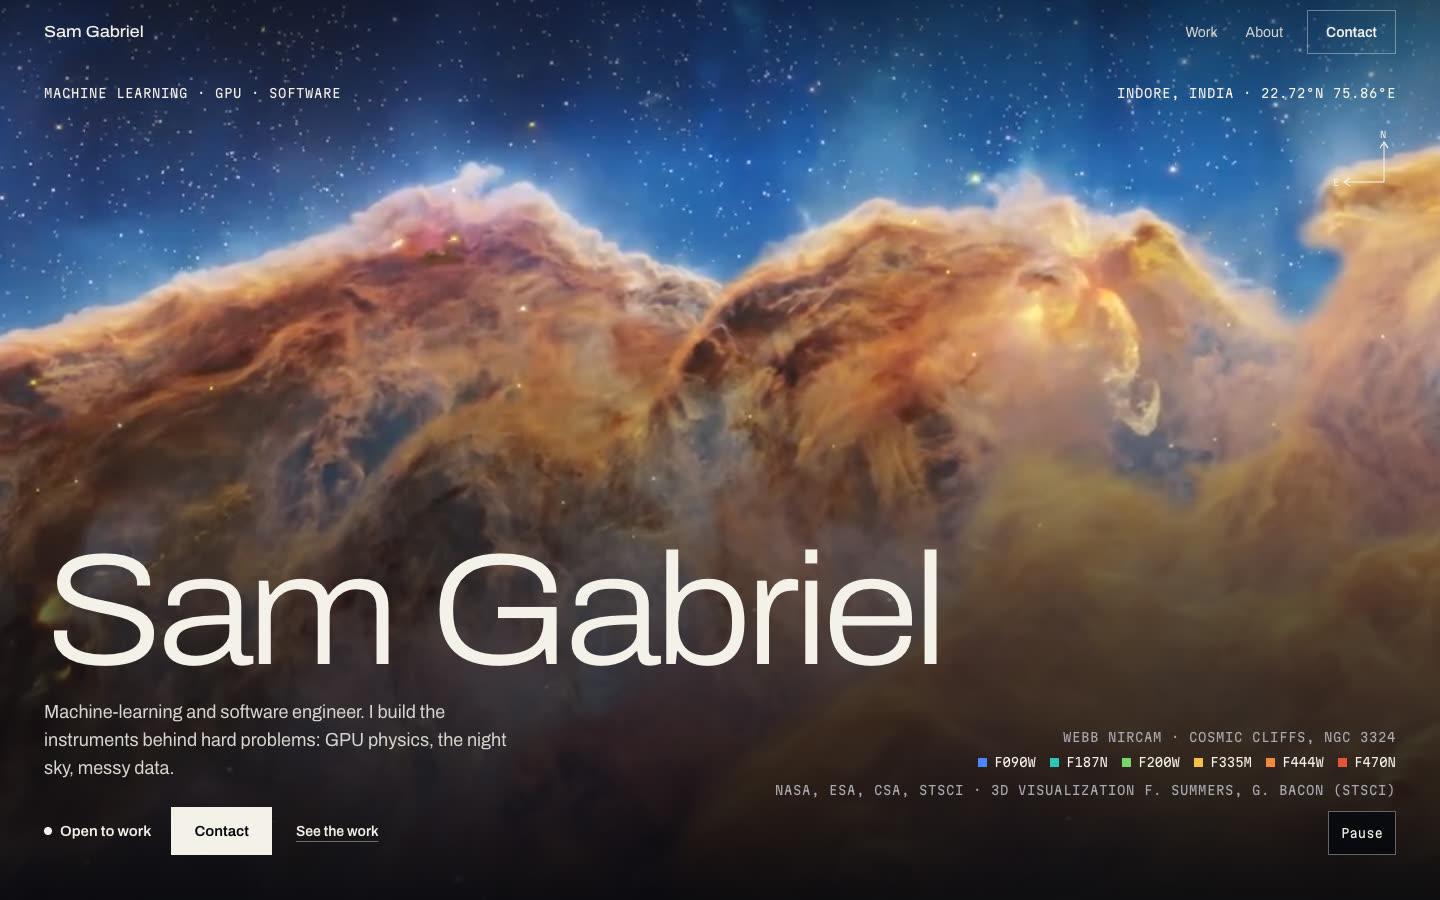
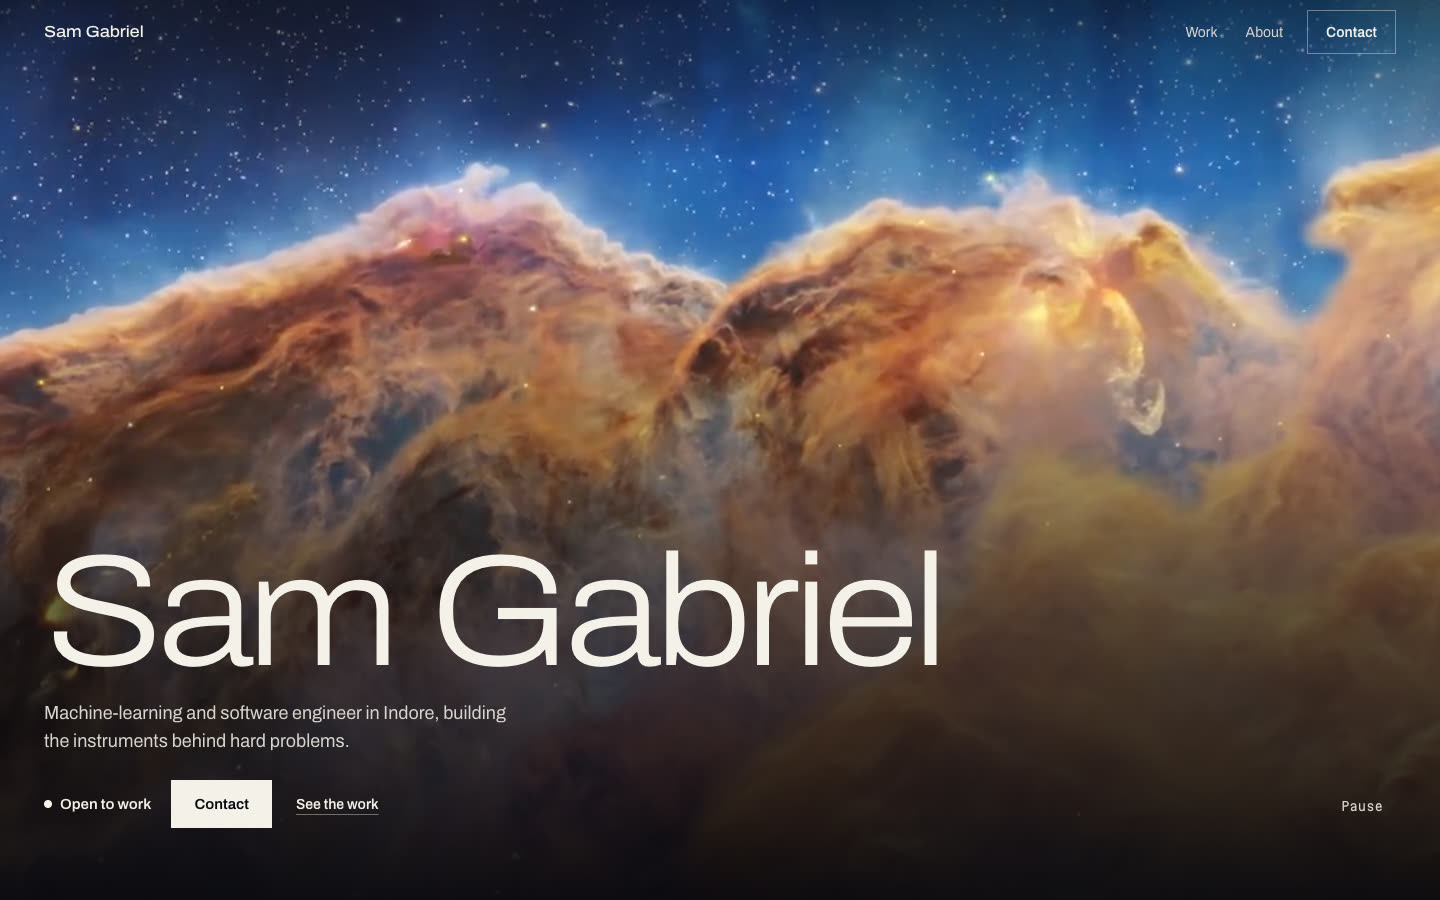
README: current screenshots

diff --git a/README.md b/README.md
@@ -6,7 +6,7 @@ caption, what it was built with, and where to see it.
 
 **Live at [samgabriel.vercel.app](https://samgabriel.vercel.app)**.
 
-![The opening plate: the Cosmic Cliffs of the Carina Nebula behind the name, with the Webb filter legend and credit](docs/screenshot-opening.jpg)
+![The opening plate: the Cosmic Cliffs of the Carina Nebula behind the name](docs/screenshot-opening.jpg)
 
 The opening image is a 3D flight through the James Webb Space Telescope's Cosmic Cliffs.
 Its credit and filter legend sit with the other image credits at the foot of the page.
@@ -17,7 +17,7 @@ Eight projects with public source, five of them live. An index at the top of the
 works as a table of contents. Below it, each project gets a plate with a capture of the thing running,
 because a reader cannot clone and build a CUDA simulator to see whether it works.
 
-![Two release plates: nbodyssey with its benchmark, and NovaSky](docs/screenshot-releases.jpg)
+![The project index and the first plates: nbodyssey with its benchmark, and NovaSky](docs/screenshot-releases.jpg)
 
 The one performance figure on the site is nbodyssey's: the Barnes-Hut tree code ran
 176 times faster than brute force at one million particles on a single Tesla T4. It is
